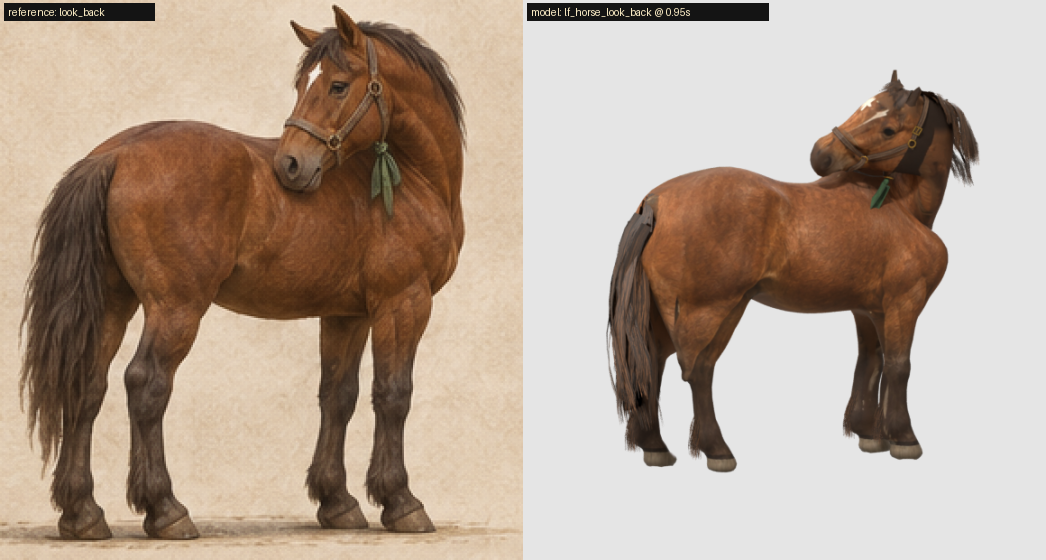
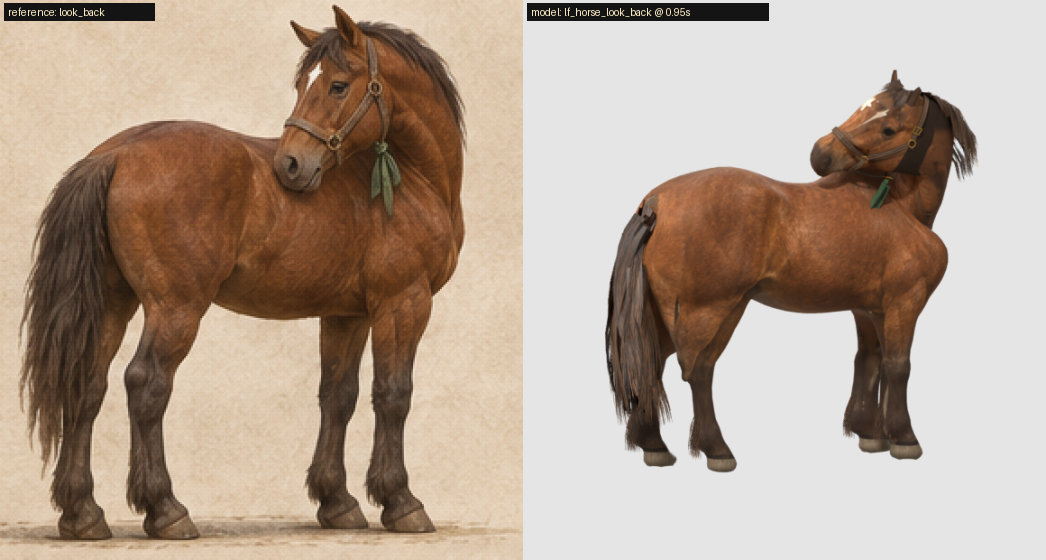
WIP: auto-checkpoint of agent progress
Claude-Session: https://claude.ai/code/session_01HwWPLNsZoT8MDs8G9gKuWc

diff --git a/forest_rescue/blender/assets/horse/horse_body.py b/forest_rescue/blender/assets/horse/horse_body.py
@@ -119,11 +119,12 @@ def hoof(coffin, toe, heel, side, bone, scale=1.0):
     parts = []
     gc = (toe + heel) * 0.5                     # ground centre
     top = coffin + V(0, 0.01, 0.025)
-    r_bot = 0.095 * scale
-    r_top = 0.068 * scale
-    parts.append(flat_cone(gc + V(0, -0.008, 0.024), top, r_bot, r_top, 0.9, axis=(0, 1, 0),
+    r_bot = 0.100 * scale
+    r_top = 0.070 * scale
+    # wider front-to-back than side-to-side (side views show long hooves, front/rear narrow)
+    parts.append(flat_cone(gc + V(0, -0.008, 0.024), top, r_bot, r_top, 0.90, axis=(1, 0, 0),
                            bone=bone, name=f"hoof_{side}"))
-    parts.append(ell(gc + V(0, -0.012, 0.02), (r_bot * 1.0, r_bot * 1.06, 0.022), bone=bone,
+    parts.append(ell(gc + V(0, -0.012, 0.02), (r_bot * 0.90, r_bot * 1.05, 0.022), bone=bone,
                      name=f"hoof_sole_{side}"))
     return parts
 
@@ -157,7 +158,7 @@ def body_parts(J=None):
     # croup and hindquarters (draft "double" rump: two gluteal masses with a groove)
     add(ell((0, 0.40, 1.40), (0.262, 0.31, 0.17), bone="pelvis", name="croup"), 0.16)
     for sx in (1, -1):
-        add(ell((0.197 * sx, 0.49, 1.19), (0.186, 0.30, 0.305), bone="pelvis", name="haunch"), 0.16)
+        add(ell((0.199 * sx, 0.49, 1.19), (0.192, 0.30, 0.305), bone="pelvis", name="haunch"), 0.16)
         add(ell((0.24 * sx, 0.18, 1.36), (0.06, 0.09, 0.06), bone="pelvis", name="hip_point"), 0.15)
         add(ell((0.22 * sx, 0.16, 1.09), (0.11, 0.19, 0.155), bone="spine_01", name="flank"), 0.15)
     # tail head (dock root)

diff --git a/forest_rescue/blender/assets/horse/horse_hair.py b/forest_rescue/blender/assets/horse/horse_hair.py
@@ -402,7 +402,7 @@ def tail_cards(lod=0, seed=7, drop=None):
         for k in range(n_ang):
             ang = 2 * math.pi * (k + 0.5 * si + rng.uniform(-0.25, 0.25)) / n_ang
             t0 = 0.05 + rng.uniform(0.0, 0.10) + 0.06 * si
-            t1 = rng.uniform(0.80, 1.0) if si == 0 else rng.uniform(0.68, 0.93)
+            t1 = rng.uniform(0.88, 1.0) if si == 0 else rng.uniform(0.80, 0.97)
             ts = np.linspace(t0, t1, segs + 1)
             c = _tail_center(ts)
             # cross-section: hugs the dock, full in the middle, spreading loose toward the tip
